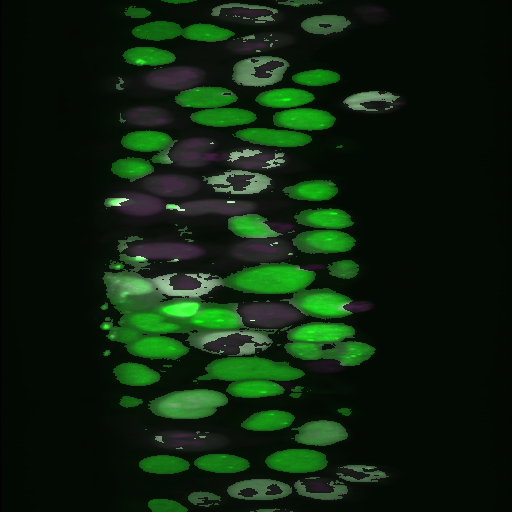
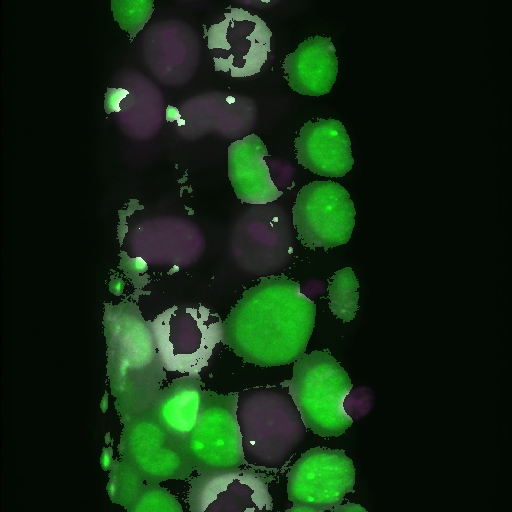
updates

diff --git a/LOCO-Edit/src/make_mask.py b/LOCO-Edit/src/make_mask.py
@@ -4,8 +4,20 @@ import torch
 from PIL import Image
 
 def make_color_mask(img_path, kind, out_path, size=512):
-    img = Image.open(img_path).convert('RGB').resize((size, size))
-    a = np.array(img).astype(np.int16)   # [H,W,3]
+    img = Image.open(img_path).convert('RGB')
+
+    # match ImgDataset.__getitem__ exactly
+    w, h = img.size
+    crop_size = min(w, h)
+    left   = (w - crop_size) / 2
+    top    = (h - crop_size) / 2
+    right  = (w + crop_size) / 2
+    bottom = (h + crop_size) / 2
+    img = img.crop((left, top, right, bottom))
+    img = img.resize((size, size))
+
+    a = np.array(img).astype(np.int16)
+
     R, G, B = a[..., 0], a[..., 1], a[..., 2]
 
     if kind == 'green':